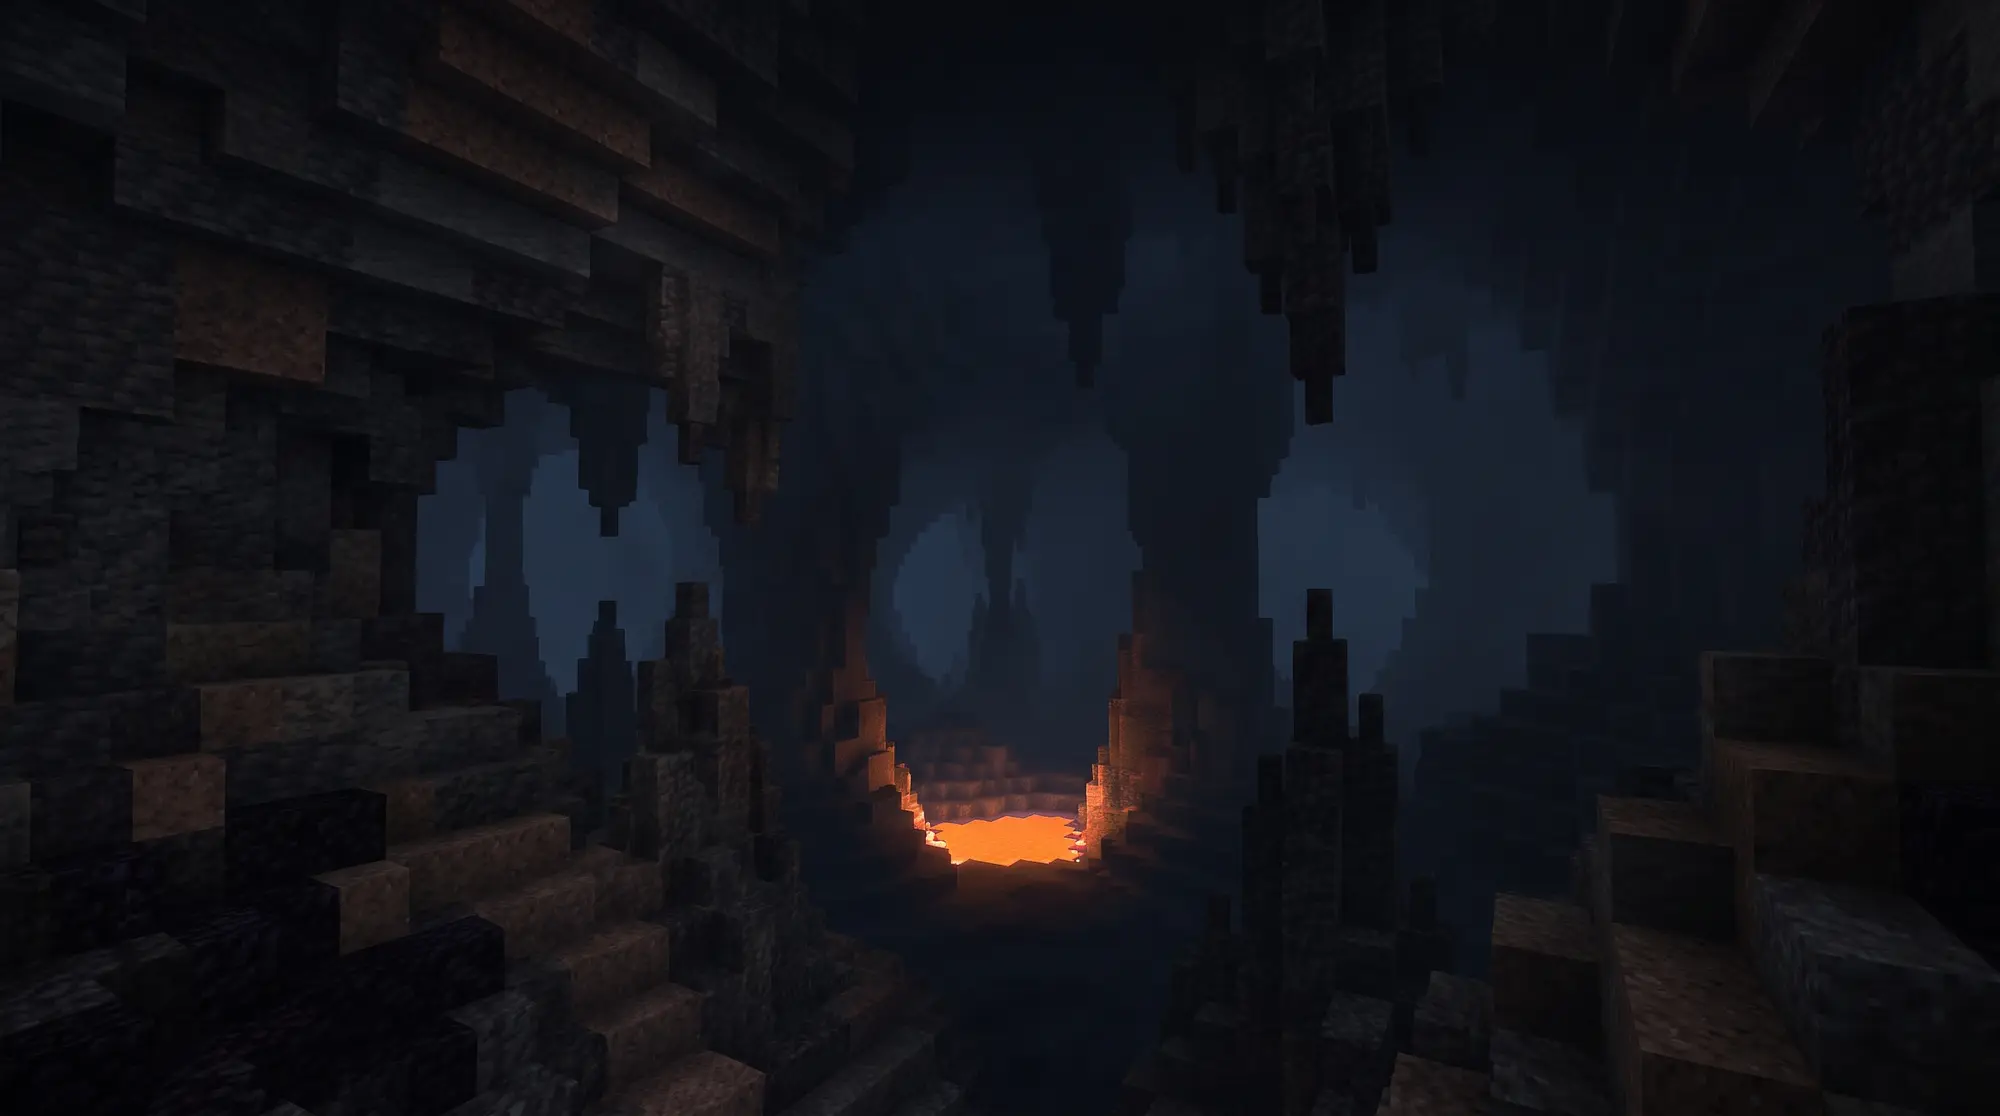
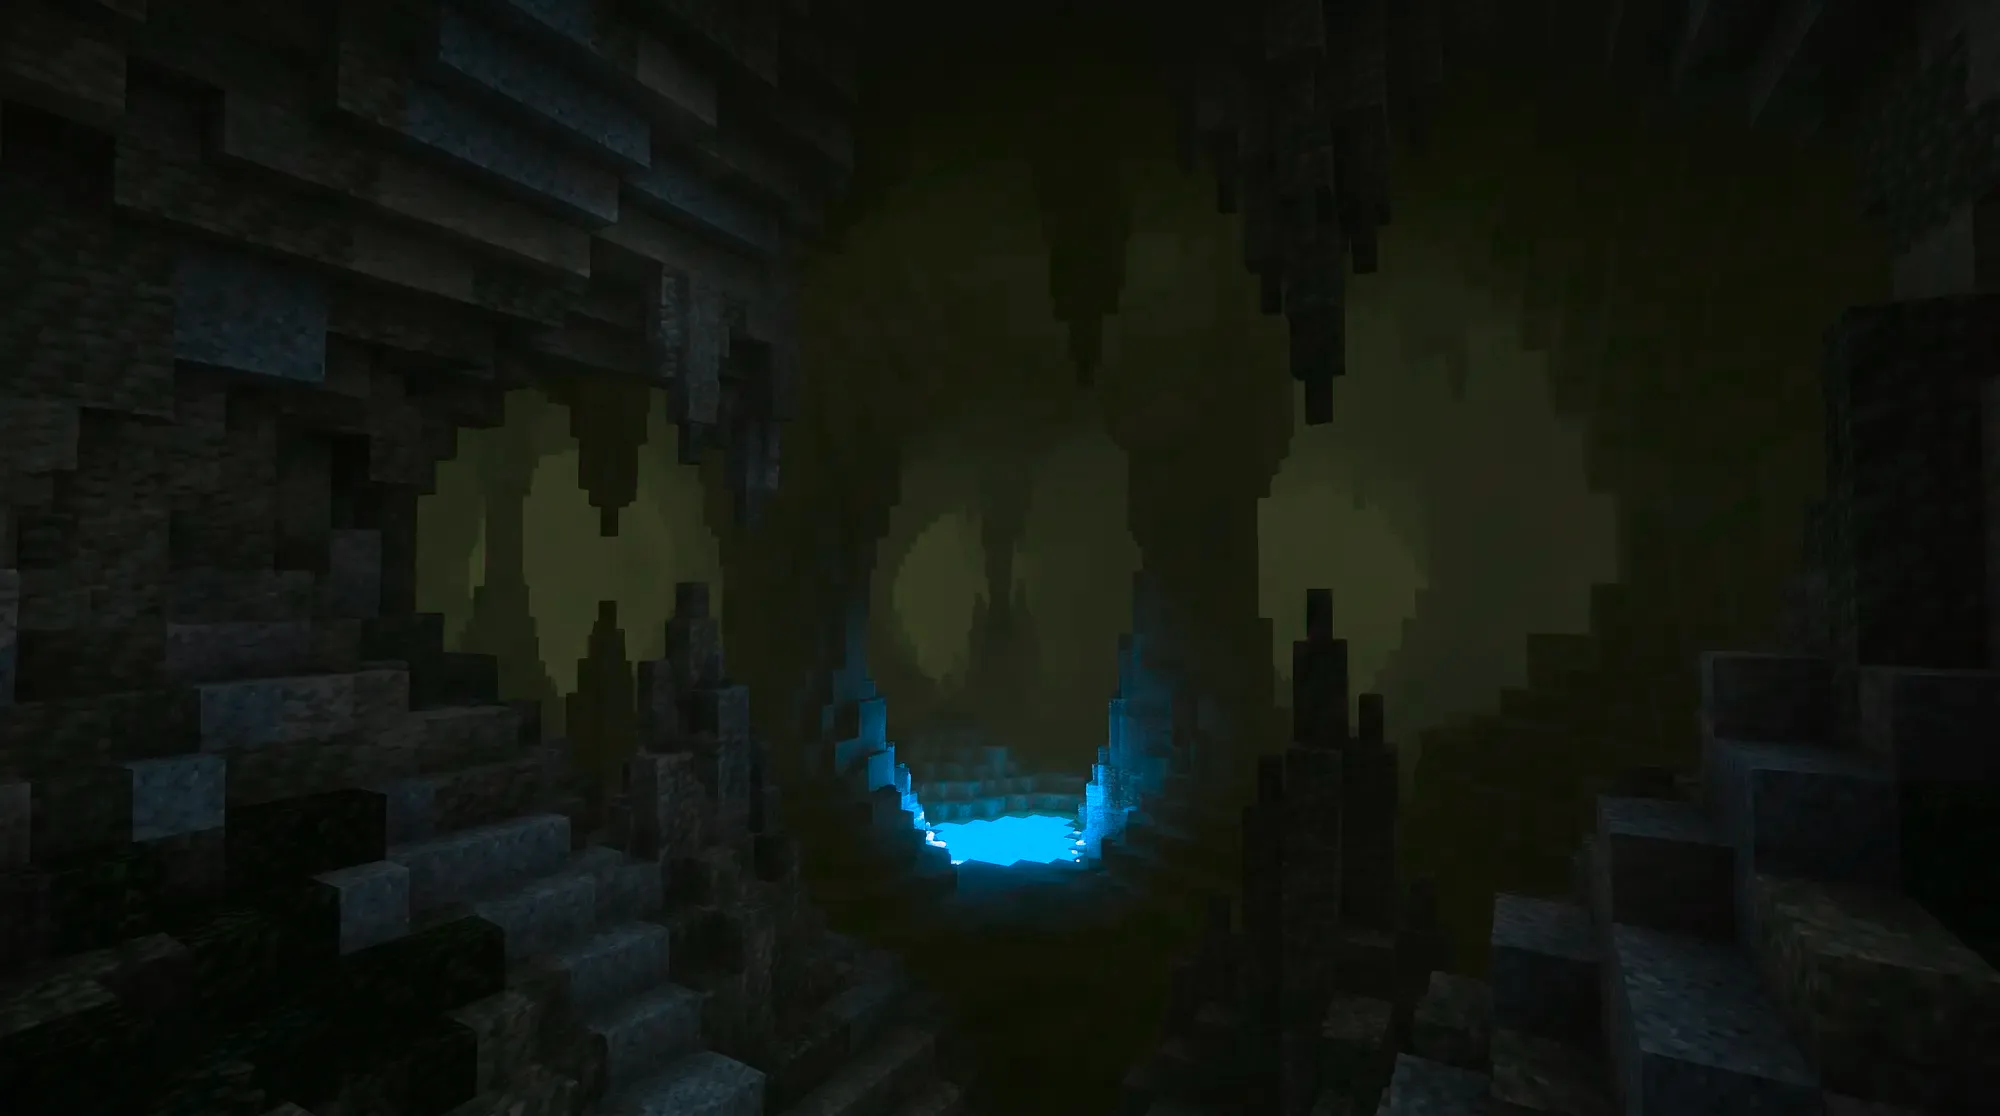
Reskin the site around the new Atlas Studio mark
Rebuilds the logo as SVG so it stays crisp at every size, from the 32px
favicon to the 512px icon, and reskins the site to match it rather than
leaving an indigo mark sitting on an amber page.

- logo.svg and favicon.svg redrawn to match the supplied mark: indigo
  gradient glyph, triangular counter, light catch along the apex, on a
  dark navy rounded square. All PNG icons regenerated from it.
- Palette moved from amber to the mark's indigo. Surfaces pick up its
  navy cast (#080a14 / #0e1120 / #151928) so the logo sits on the page
  instead of floating on neutral grey. Contrast was checked rather than
  eyeballed: accent on background is 8.4:1 and button text 5.05:1, both
  clearing AA.
- All six voxel scenes recolored from warm sunset to cool twilight. Tried
  a flat duotone tint first; it lost the depth in the terrain, so this
  keeps a hue rotation with a small saturation lift instead.
- New OG image built from the mark and the studio name, replacing the one
  carrying the old orange logo.

Upstream project logos in the footer keep their own colours - those are
other people's marks and recolouring them would misrepresent them.

diff --git a/src/styles/global.css b/src/styles/global.css
@@ -11,25 +11,25 @@
   --font-sans: "Inter Variable", Inter, -apple-system, BlinkMacSystemFont, "Segoe UI", Roboto, sans-serif;
   --font-mono: ui-monospace, SFMono-Regular, "SF Mono", Menlo, Consolas, "Liberation Mono", monospace;
 
-  --color-primary-100: #fff3e0;
-  --color-primary-200: #ffe0b3;
-  --color-primary-300: #ffc978;
-  --color-primary-400: #ffb04d;
-  --color-primary-500: #ff8c1a;
-  --color-primary-600: #f2740a;
-  --color-primary-700: #d9530a;
-  --color-primary-800: #b23e08;
-  --color-primary-900: #7a2a08;
+  --color-primary-100: #eef0ff;
+  --color-primary-200: #d9deff;
+  --color-primary-300: #b9c2ff;
+  --color-primary-400: #9aa6fd;
+  --color-primary-500: #6b78f0;
+  --color-primary-600: #5560e2;
+  --color-primary-700: #4348c6;
+  --color-primary-800: #34379b;
+  --color-primary-900: #232463;
 
-  --color-surface-0: #0a0b0e;
-  --color-surface-1: #101216;
-  --color-surface-2: #161920;
+  --color-surface-0: #080a14;
+  --color-surface-1: #0e1120;
+  --color-surface-2: #151928;
 
-  --color-background-dark-90: #0a0b0e;
-  --color-background-dark-80: #101216;
-  --color-background-dark-70: #161920;
+  --color-background-dark-90: #080a14;
+  --color-background-dark-80: #0e1120;
+  --color-background-dark-70: #151928;
   --color-background-light-0: #ffffff;
-  --color-background-light-10: #fff8f0;
+  --color-background-light-10: #f3f5ff;
 }
 
 @layer base {
@@ -55,7 +55,7 @@
 
   ::selection {
     background-color: var(--color-primary-500);
-    color: #0a0b0e;
+    color: #080a14;
   }
 
   :focus-visible {
@@ -106,7 +106,7 @@
 /* Alias: the old glow-button name is still referenced in a few places. Same flat style now. */
 .btn-glow {
   background: var(--color-primary-500);
-  color: #0a0b0e;
+  color: #080a14;
   border-radius: 0.375rem;
   font-weight: 600;
   transition: background-color 0.15s ease;
